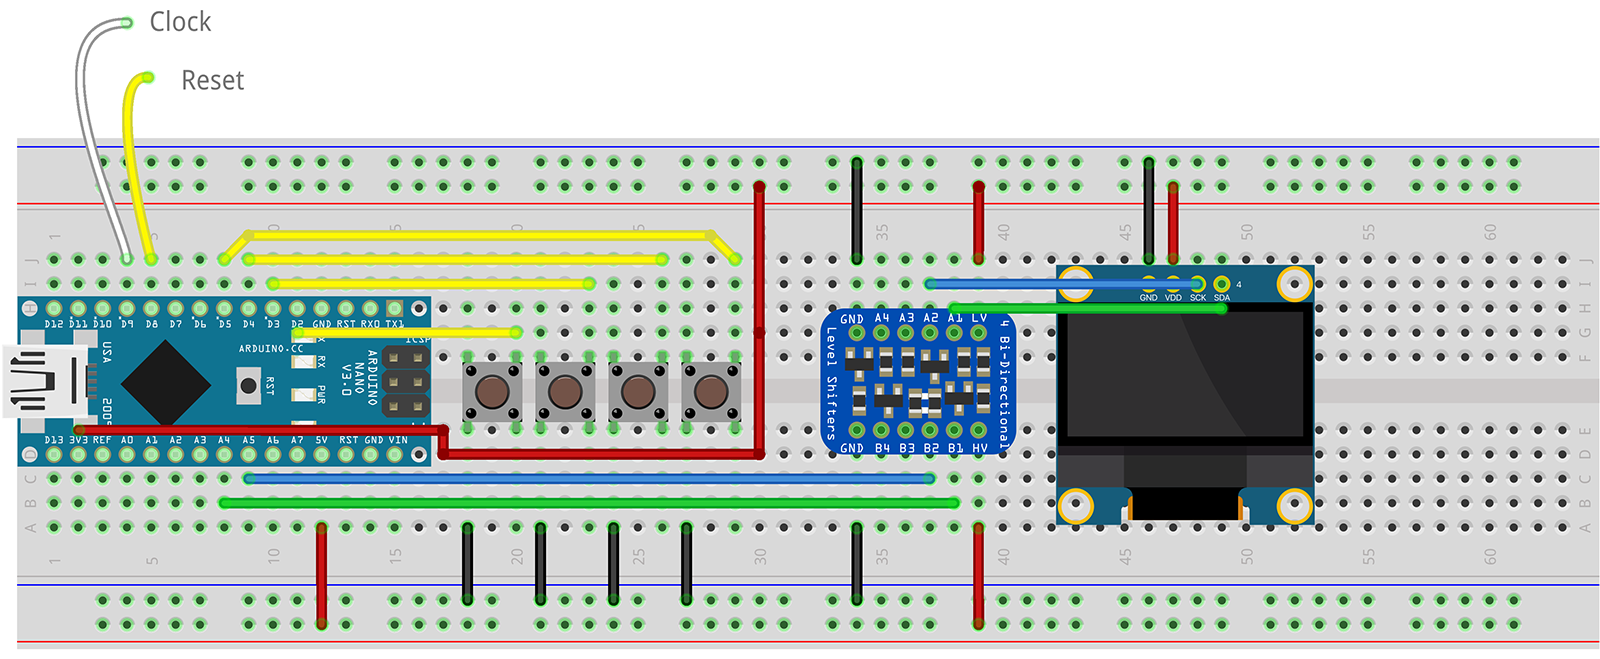
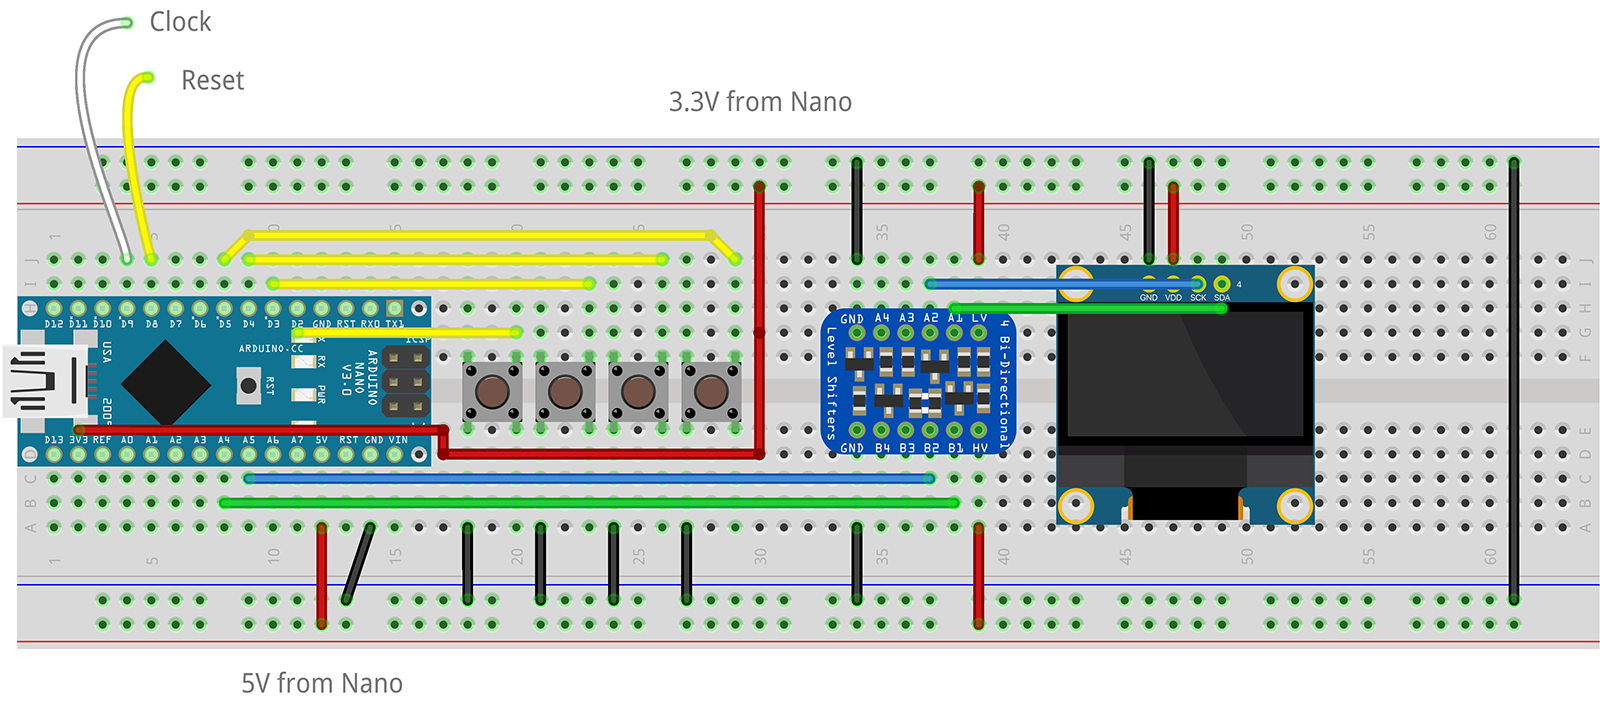
Update 5V/3.3V on schematic/README

diff --git a/nano-clock-oled/README.md b/nano-clock-oled/README.md
@@ -99,7 +99,9 @@ I used an [Elegoo Arduino Nano v3.0](https://www.amazon.com/ELEGOO-Presoldered-C
 
 ### Assembly
 
-The breadboard "schematic", above, shows all of the required connections.  In an actual build, you can run the non-ground connections to the Arduino Nano *under* the board (since it is on headers) for a cleaner and more secure fit.  Similarly, the SDA and SCL connections to the LED display can be run under the backpack PCB.
+**NOTE:** The depicted "schematic" assumes the power input is via the USB connection on the Arduino Nano.  GND is common.  +5V is on the bottom power rail, drawn from the Nano's 5V pin.  +3.3V is on the top power rail, drawn from the Nano's 3.3V pin.  If powering via an external supply, or from another board, you will need to ensure either a) you have a 3.3V feed from that board for the top rails or b) you're powering the Nano via it's VIN line or c) you use an OLED display with built-in level shifting circuitry or 5V tolerance (and then just use a common +5V feed on both rails).
+
+The breadboard "schematic", above, shows all of the required connections.  In an actual build, you can run the non-ground connections to the Arduino Nano *under* the board (since it is on headers) for a cleaner and more secure fit.  Similarly, the SDA and SCL connections to the LED display can be run under the OLED's PCB.
 
 ![nano-clock-oled breadboard layout](images/nano-clock-oled_actual.jpg)
 
